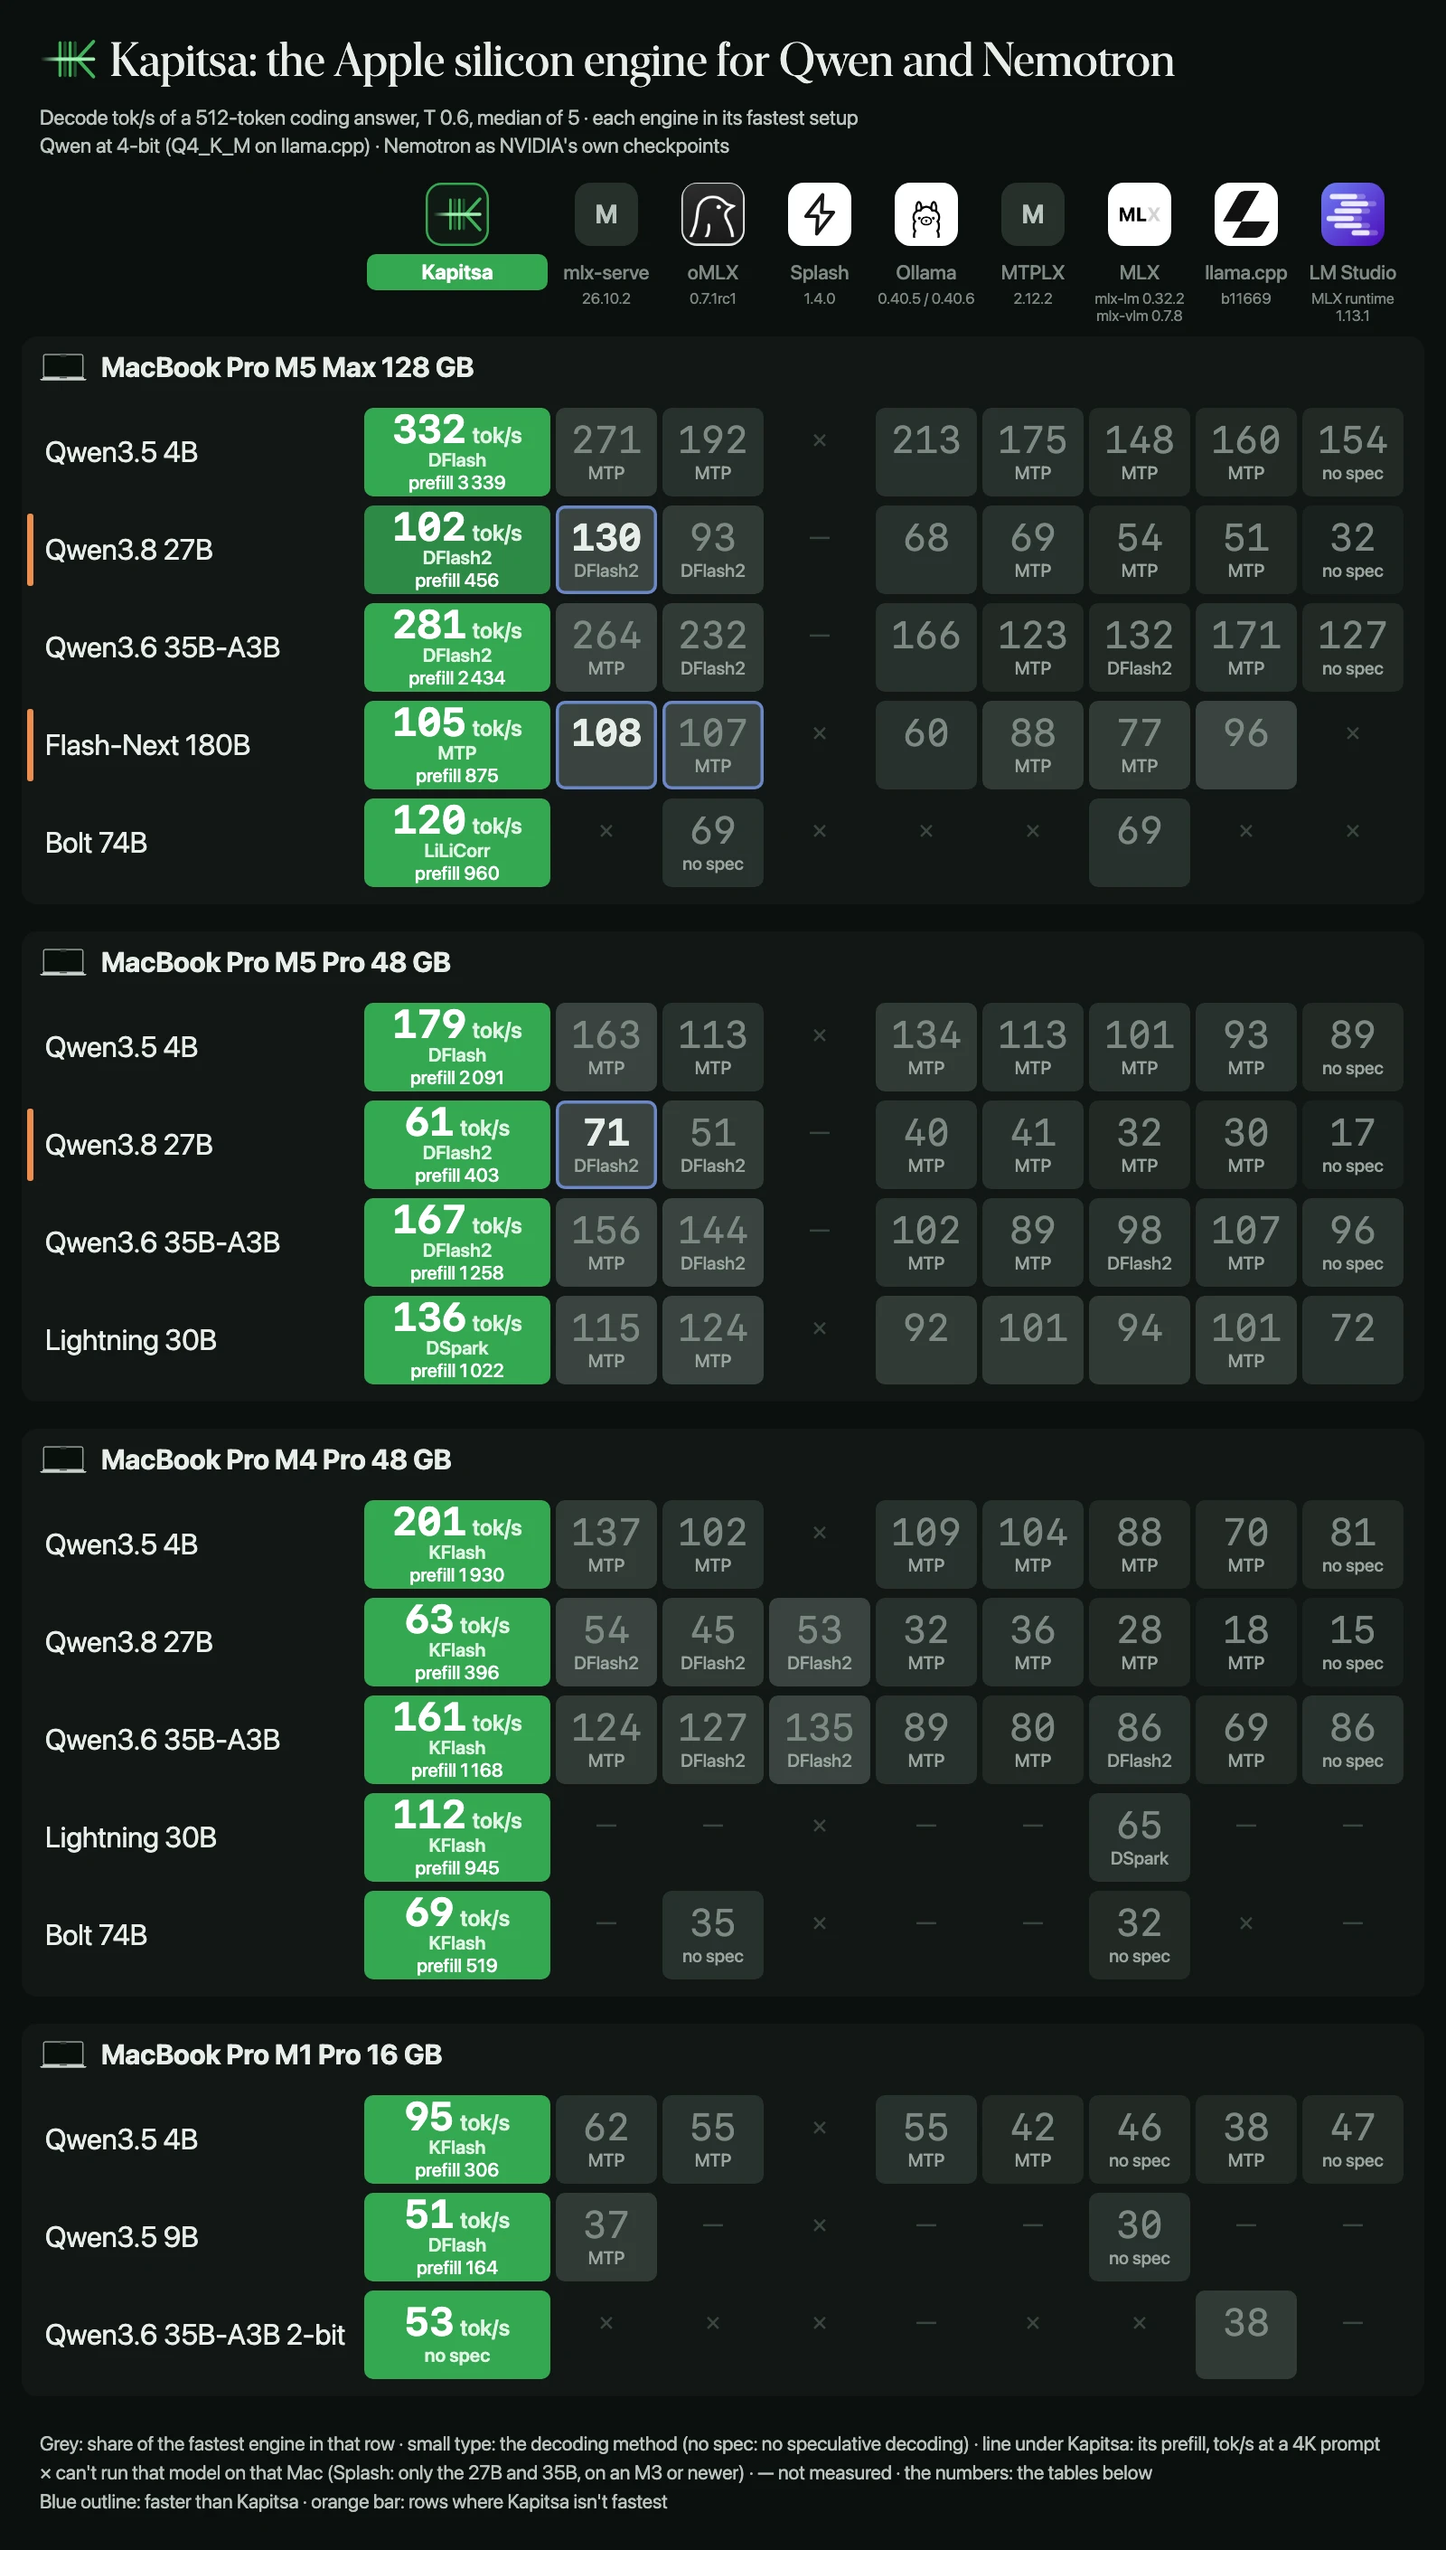
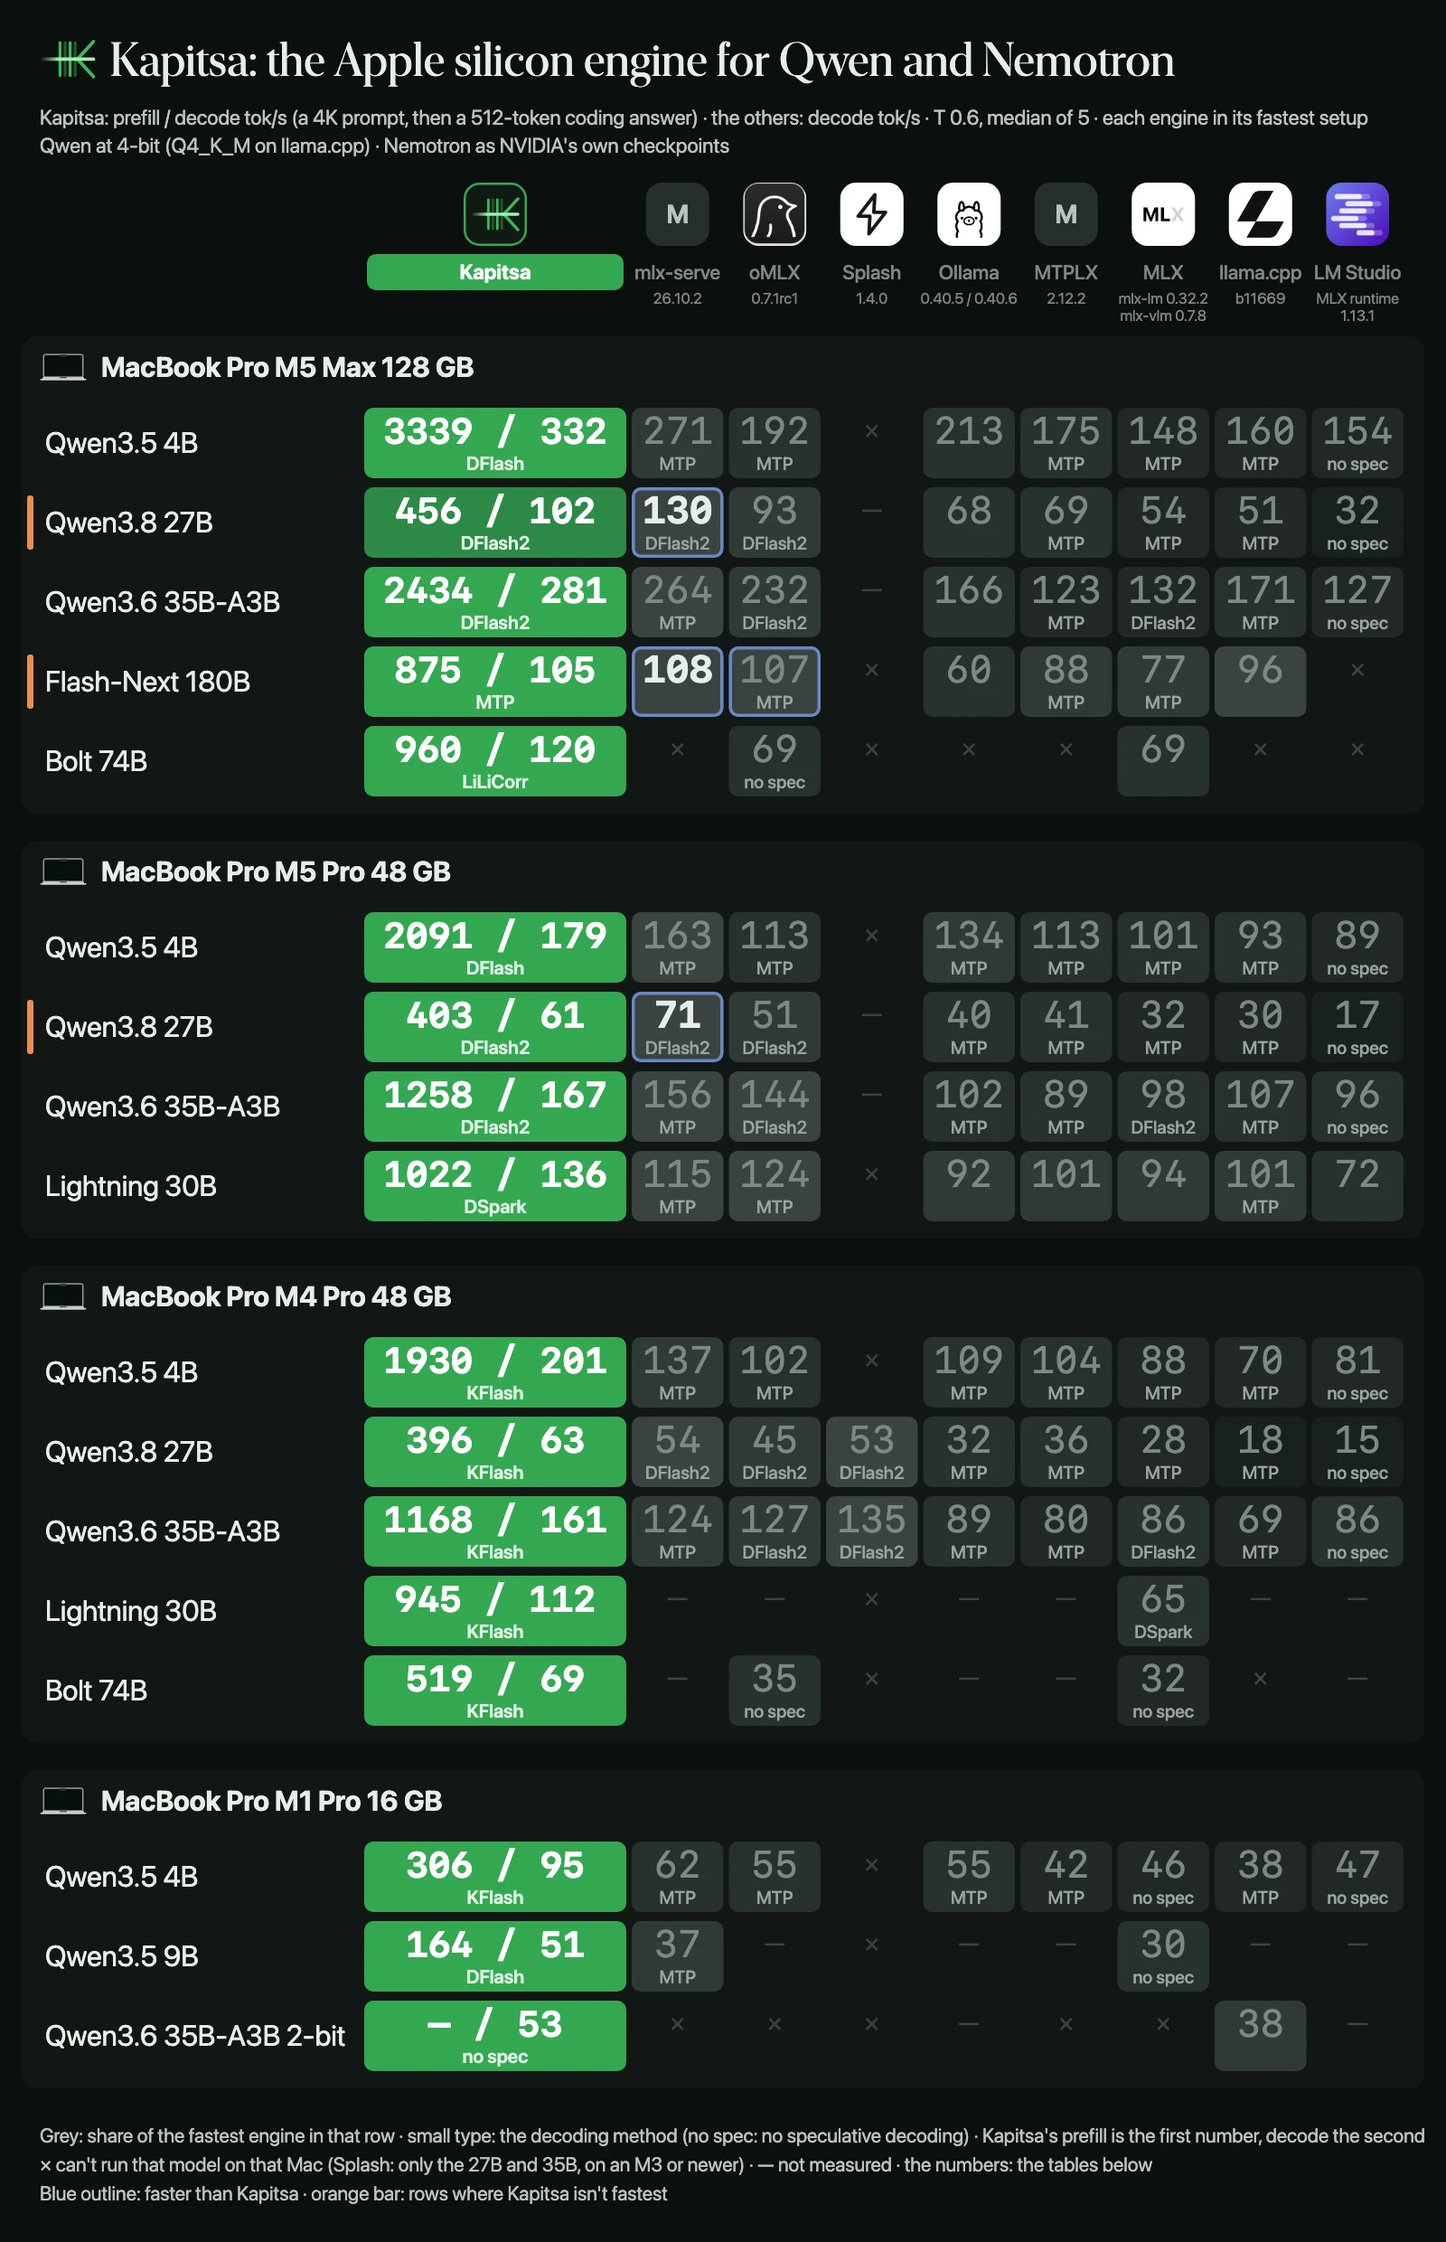
README: Kapitsa speed as prefill / decode in the poster and compact tables (#238)
* README: show Kapitsa's speed as prefill / decode at one size, in the poster and the compact tables

* readme_images: poster size matches the 17-row layout

* readme_images: document the prefill / decode cell

---------

Changed region(s): [[0.0312, 0.0, 0.9688, 0.9935], [0.5938, 0.8073, 0.6875, 0.8694], [0.0312, 0.7141, 0.1562, 0.7762]]

diff --git a/tools/readme_images/readme_images.py b/tools/readme_images/readme_images.py
@@ -113,12 +113,13 @@ POSTER = {
 }
 ORANGE = "#EE8E4E"
 X0, LW, KW = 40, 360, 212           # left edge, the model-name column, Kapitsa's column (the others share the rest)
+KW_PRE = 296                        # Kapitsa's column when it shows 'prefill / decode'
 TILE, TILE_Y = 70, 202              # logo tiles
 PANELS_Y, HEAD, PAD, GAP = 372, 74, 14, 30
 FOOT_GAP, FOOT_LINE, FOOT_PAD = 44, 32, 30
-RH_MIN, RH_MAX = 108, 150
+RH_MIN, RH_MAX = 88, 150
 F_MODEL, F_VAL, F_KVAL, F_UNIT, F_METH, F_KMETH, F_DASH = 32, 42, 44, 25, 20, 21, 28
-PRE_GAP = 11                        # between the lines under Kapitsa's number
+F_COMB = 40                         # 'prefill / decode', both at one size and weight
 M_GAP = 14                          # a number's baseline to the top of its method label
 CAP = 0.705                         # cap height of SF Pro and SF Mono, per em
 
@@ -211,8 +212,10 @@ def poster(data, theme):
     engines = data["engines"]
     names = [e["name"] for e in engines]
     under = header_methods(data)
-    OW = (W - 44 - X0 - LW - KW) / (len(engines) - 1)
-    colx = [(X0 + LW, KW)] + [(X0 + LW + KW + j * OW, OW) for j in range(len(engines) - 1)]
+    combined = any(isinstance(c, dict) and c.get('prefill') for m in P['macs'] for r in m['rows'] for c in r['cells'].values())
+    kw = KW_PRE if combined else KW
+    OW = (W - 44 - X0 - LW - kw) / (len(engines) - 1)
+    colx = [(X0 + LW, kw)] + [(X0 + LW + kw + j * OW, OW) for j in range(len(engines) - 1)]
     notes = []
 
     rows = [r for m in P["macs"] for r in m["rows"]]
@@ -280,20 +283,18 @@ def poster(data, theme):
                 if j == 0:
                     o.append(rect(cx + 3, ry + 5, cw - 6, rh - 10, 10, t["greens"][max(lvl, 4) if theme == "light" else lvl]))
                     pre = cell(row, e)[2].get("prefill") if isinstance(cell(row, e)[2], dict) else None
-                    kvb, kmb = vb, mb
-                    if pre:                   # a third line: the prefill speed, so the block is re-centered
-                        lines = 2 if meth else 1
-                        block = CAP * F_KVAL + lines * (PRE_GAP + CAP * F_KMETH)
-                        kvb = cy - block / 2 + CAP * F_KVAL
-                        kmb = kvb + PRE_GAP + CAP * F_KMETH
-                    o.append(f'<text x="{num(mid)}" y="{num(kvb)}" text-anchor="middle" fill="#FFFFFF">'
+                    if combined:              # one value, prefill first, both the same size and weight
+                        head = f"{fmt(pre)} / " if pre else f"{DASH} / "
+                        o.append(f'<text x="{num(mid)}" y="{num(vb)}" text-anchor="middle" fill="#FFFFFF">'
+                                 f'<tspan class="mono-b" font-size="{F_COMB}">{head}{fmt(v)}</tspan></text>')
+                        if meth:
+                            o += method_label(mid, mb, meth, "sans-sb", F_KMETH, t["unit"])
+                        continue
+                    o.append(f'<text x="{num(mid)}" y="{num(vb)}" text-anchor="middle" fill="#FFFFFF">'
                              f'<tspan class="mono-b" font-size="{F_KVAL}">{fmt(v)}</tspan>'
                              f'<tspan class="sans-sb" font-size="{F_UNIT}" dx="7" fill="{t["unit"]}">tok/s</tspan></text>')
                     if meth:
-                        o += method_label(mid, kmb, meth, "sans-sb", F_KMETH, t["unit"])
-                        kmb += PRE_GAP + CAP * F_KMETH
-                    if pre:
-                        o.append(text(mid, kmb, f"prefill {pre:,}".replace(",", "\u202f"), "sans-m", F_KMETH, "#FFFFFF", "middle"))
+                        o += method_label(mid, mb, meth, "sans-sb", F_KMETH, t["unit"])
                     continue
                 best = v == top
                 o.append(rect(cx + 3, ry + 5, cw - 6, rh - 10, 10, t["greys"][lvl]))
@@ -532,7 +533,7 @@ def main():
     print("README header alt text:", data["header"]["title"] + ". " + header_desc(data, rows[::-1]))
     words = "zero one two three four five six seven eight nine ten eleven twelve".split()
     others = len(data["engines"]) - 1
-    print("README poster alt text: Decode speed of a 512-token coding answer, in tokens per second, for Kapitsa and "
+    print("README poster alt text: Prefill and decode speed (a 4K prompt, then a 512-token coding answer) for Kapitsa, and decode speed for "
           f"{words[others] if others < len(words) else others} other engines on "
           + " and ".join("a " + m["name"] for m in data["poster"]["macs"])
           + ", each engine in its fastest setup and its speculative decoding method; the numbers are in the tables below")

diff --git a/README.md b/README.md
@@ -47,47 +47,47 @@ Kapitsa is fastest in 23 of the 26 model and Mac pairs measured against eight en
 
 <picture>
   <source media="(prefers-color-scheme: dark)" srcset="docs/assets/benchmarks-dark.webp">
-  <img alt="Poster of decode and prefill speed for Kapitsa and eight other engines on a MacBook Pro M5 Max, M5 Pro, M4 Pro and M1 Pro; the numbers are in the tables below" src="docs/assets/benchmarks-light.webp">
+  <img alt="Poster of prefill / decode speed for Kapitsa and decode speed for eight other engines on a MacBook Pro M5 Max, M5 Pro, M4 Pro and M1 Pro; the numbers are in the tables below" src="docs/assets/benchmarks-light.webp">
 </picture>
 
-<sub>Decode speed of a 512-token coding answer in tokens per second, each engine in its fastest setup, its decoding method under each value (no spec: no speculative decoding); under Kapitsa's number, its prefill speed on a 4K prompt. × cannot run that model on that Mac · — not measured. The poster shows the models that differ most per Mac; the tables below and the [details](docs/benchmarks.md#the-readmes-tables) have every cell.</sub>
+<sub>Tokens per second, each engine in its fastest setup, its decoding method under each value (no spec: no speculative decoding). Kapitsa shows prefill / decode, prefill on a 4K-token prompt and decode of a 512-token coding answer; the other engines show decode. × cannot run that model on that Mac · — not measured. The poster shows the models that differ most per Mac; the tables below and the [details](docs/benchmarks.md#the-readmes-tables) have every cell.</sub>
 
 #### MacBook Pro (16-inch, 2026) · M5 Max · 128 GB
 
-| Model | Kapitsa decode | Kapitsa prefill (4K) | Fastest other engine |
-| --- | ---: | ---: | --- |
-| Qwen3.5 4B | **332 tok/s**<br><sub>DFlash</sub> | 3,339 tok/s | mlx-serve 271 tok/s<sub>, MTP</sub> |
-| Qwen3.8 27B | 102 tok/s<br><sub>DFlash2</sub> | 456 tok/s | **mlx-serve 130 tok/s**<sub>, DFlash2</sub> |
-| Qwen3.6 35B-A3B | **281 tok/s**<br><sub>DFlash2</sub> | 2,434 tok/s | mlx-serve 264 tok/s<sub>, MTP</sub> |
-| Flash-Next 180B | 105 tok/s<br><sub>MTP</sub> | 875 tok/s | **mlx-serve 108 tok/s** |
-| Bolt 74B | **120 tok/s**<br><sub>LiLiCorr</sub> | 960 tok/s | oMLX 69 tok/s<sub>, no spec</sub> |
+| Model | Kapitsa prefill / decode (tok/s) | Fastest other engine (decode) |
+| --- | ---: | --- |
+| Qwen3.5 4B | **3,339 / 332**<br><sub>DFlash</sub> | mlx-serve 271 tok/s<sub>, MTP</sub> |
+| Qwen3.8 27B | 456 / 102<br><sub>DFlash2</sub> | **mlx-serve 130 tok/s**<sub>, DFlash2</sub> |
+| Qwen3.6 35B-A3B | **2,434 / 281**<br><sub>DFlash2</sub> | mlx-serve 264 tok/s<sub>, MTP</sub> |
+| Flash-Next 180B | 875 / 105<br><sub>MTP</sub> | **mlx-serve 108 tok/s** |
+| Bolt 74B | **960 / 120**<br><sub>LiLiCorr</sub> | oMLX 69 tok/s<sub>, no spec</sub> |
 
 #### MacBook Pro (16-inch, 2026) · M5 Pro · 48 GB
 
-| Model | Kapitsa decode | Kapitsa prefill (4K) | Fastest other engine |
-| --- | ---: | ---: | --- |
-| Qwen3.5 4B | **179 tok/s**<br><sub>DFlash</sub> | 2,091 tok/s | mlx-serve 163 tok/s<sub>, MTP</sub> |
-| Qwen3.8 27B | 61 tok/s<br><sub>DFlash2</sub> | 403 tok/s | **mlx-serve 71 tok/s**<sub>, DFlash2</sub> |
-| Qwen3.6 35B-A3B | **167 tok/s**<br><sub>DFlash2</sub> | 1,258 tok/s | mlx-serve 156 tok/s<sub>, MTP</sub> |
-| Lightning 30B | **136 tok/s**<br><sub>DSpark</sub> | 1,022 tok/s | oMLX 124 tok/s<sub>, MTP</sub> |
+| Model | Kapitsa prefill / decode (tok/s) | Fastest other engine (decode) |
+| --- | ---: | --- |
+| Qwen3.5 4B | **2,091 / 179**<br><sub>DFlash</sub> | mlx-serve 163 tok/s<sub>, MTP</sub> |
+| Qwen3.8 27B | 403 / 61<br><sub>DFlash2</sub> | **mlx-serve 71 tok/s**<sub>, DFlash2</sub> |
+| Qwen3.6 35B-A3B | **1,258 / 167**<br><sub>DFlash2</sub> | mlx-serve 156 tok/s<sub>, MTP</sub> |
+| Lightning 30B | **1,022 / 136**<br><sub>DSpark</sub> | oMLX 124 tok/s<sub>, MTP</sub> |
 
 #### MacBook Pro (16-inch, 2024) · M4 Pro · 48 GB
 
-| Model | Kapitsa decode | Kapitsa prefill (4K) | Fastest other engine |
-| --- | ---: | ---: | --- |
-| Qwen3.5 4B | **201 tok/s**<br><sub>KFlash</sub> | 1,930 tok/s | mlx-serve 137 tok/s<sub>, MTP</sub> |
-| Qwen3.8 27B | **63 tok/s**<br><sub>KFlash</sub> | 396 tok/s | mlx-serve 54 tok/s<sub>, DFlash2</sub> |
-| Qwen3.6 35B-A3B | **161 tok/s**<br><sub>KFlash</sub> | 1,168 tok/s | Splash 135 tok/s<sub>, DFlash2</sub> |
-| Lightning 30B | **112 tok/s**<br><sub>KFlash</sub> | 945 tok/s | MLX 65 tok/s<sub>, DSpark</sub> |
-| Bolt 74B | **69 tok/s**<br><sub>KFlash</sub> | 519 tok/s | oMLX 35 tok/s<sub>, no spec</sub> |
+| Model | Kapitsa prefill / decode (tok/s) | Fastest other engine (decode) |
+| --- | ---: | --- |
+| Qwen3.5 4B | **1,930 / 201**<br><sub>KFlash</sub> | mlx-serve 137 tok/s<sub>, MTP</sub> |
+| Qwen3.8 27B | **396 / 63**<br><sub>KFlash</sub> | mlx-serve 54 tok/s<sub>, DFlash2</sub> |
+| Qwen3.6 35B-A3B | **1,168 / 161**<br><sub>KFlash</sub> | Splash 135 tok/s<sub>, DFlash2</sub> |
+| Lightning 30B | **945 / 112**<br><sub>KFlash</sub> | MLX 65 tok/s<sub>, DSpark</sub> |
+| Bolt 74B | **519 / 69**<br><sub>KFlash</sub> | oMLX 35 tok/s<sub>, no spec</sub> |
 
 #### MacBook Pro (14-inch, 2021) · M1 Pro · 16 GB
 
-| Model | Kapitsa decode | Kapitsa prefill (4K) | Fastest other engine |
-| --- | ---: | ---: | --- |
-| Qwen3.5 4B | **95 tok/s**<br><sub>KFlash</sub> | 306 tok/s | mlx-serve 62 tok/s<sub>, MTP</sub> |
-| Qwen3.5 9B | **51 tok/s**<br><sub>DFlash</sub> | 164 tok/s | mlx-serve 37 tok/s<sub>, MTP</sub> |
-| Qwen3.6 35B-A3B 2-bit | **53 tok/s**<br><sub>no spec</sub> | — | llama.cpp 38 tok/s |
+| Model | Kapitsa prefill / decode (tok/s) | Fastest other engine (decode) |
+| --- | ---: | --- |
+| Qwen3.5 4B | **306 / 95**<br><sub>KFlash</sub> | mlx-serve 62 tok/s<sub>, MTP</sub> |
+| Qwen3.5 9B | **164 / 51**<br><sub>DFlash</sub> | mlx-serve 37 tok/s<sub>, MTP</sub> |
+| Qwen3.6 35B-A3B 2-bit | **— / 53**<br><sub>no spec</sub> | llama.cpp 38 tok/s |
 
 <sub>Prefill is Kapitsa's reading speed on a 4K-token prompt, from the newest run without a contention or invalid flag: 2026-10-19 on the M4 Pro (4B: 06:20 run), M5 Pro and M1 Pro, 2026-10-18 on the M5 Max, where every stored run is flagged for GPU contention, so read its prefill as a lower bound. KFlash decode cells were measured on 2026-10-21 ([#187](https://github.com/nace-ai/kapitsa/pull/187), [numbers](docs/benchmarks.md#kflash-trees-m4-pro-2026-10-21)); the DFlash, DFlash2, DSpark and LiLiCorr cells come from earlier runs. Every run is listed in [bench/README.md](bench/README.md).</sub>
 

diff --git a/tools/readme_images/README.md b/tools/readme_images/README.md
@@ -29,7 +29,7 @@ Everything is in `readme_images.json`:
   splits a version onto two lines.
 - **`poster.macs[].rows[].cells`:** one cell per engine. It is one of:
   - `{"value": tok/s, "method": "KFlash" | "DFlash2" | "MTP" | "no spec" | ...}`; Kapitsa's cell can add
-    `"prefill": tok/s` (a 4K prompt), drawn as a third line;
+    `"prefill": tok/s` (a 4K prompt); when any Kapitsa cell has it, the column is wider and every Kapitsa cell reads `prefill / decode`, in one size;
   - `null`, drawn as a dash: not measured;
   - `"x"`, drawn as ×: can't run on that Mac.
 - **`header`:** which Mac and model row the header's bars show, and which engines, in order (sorted by speed).
